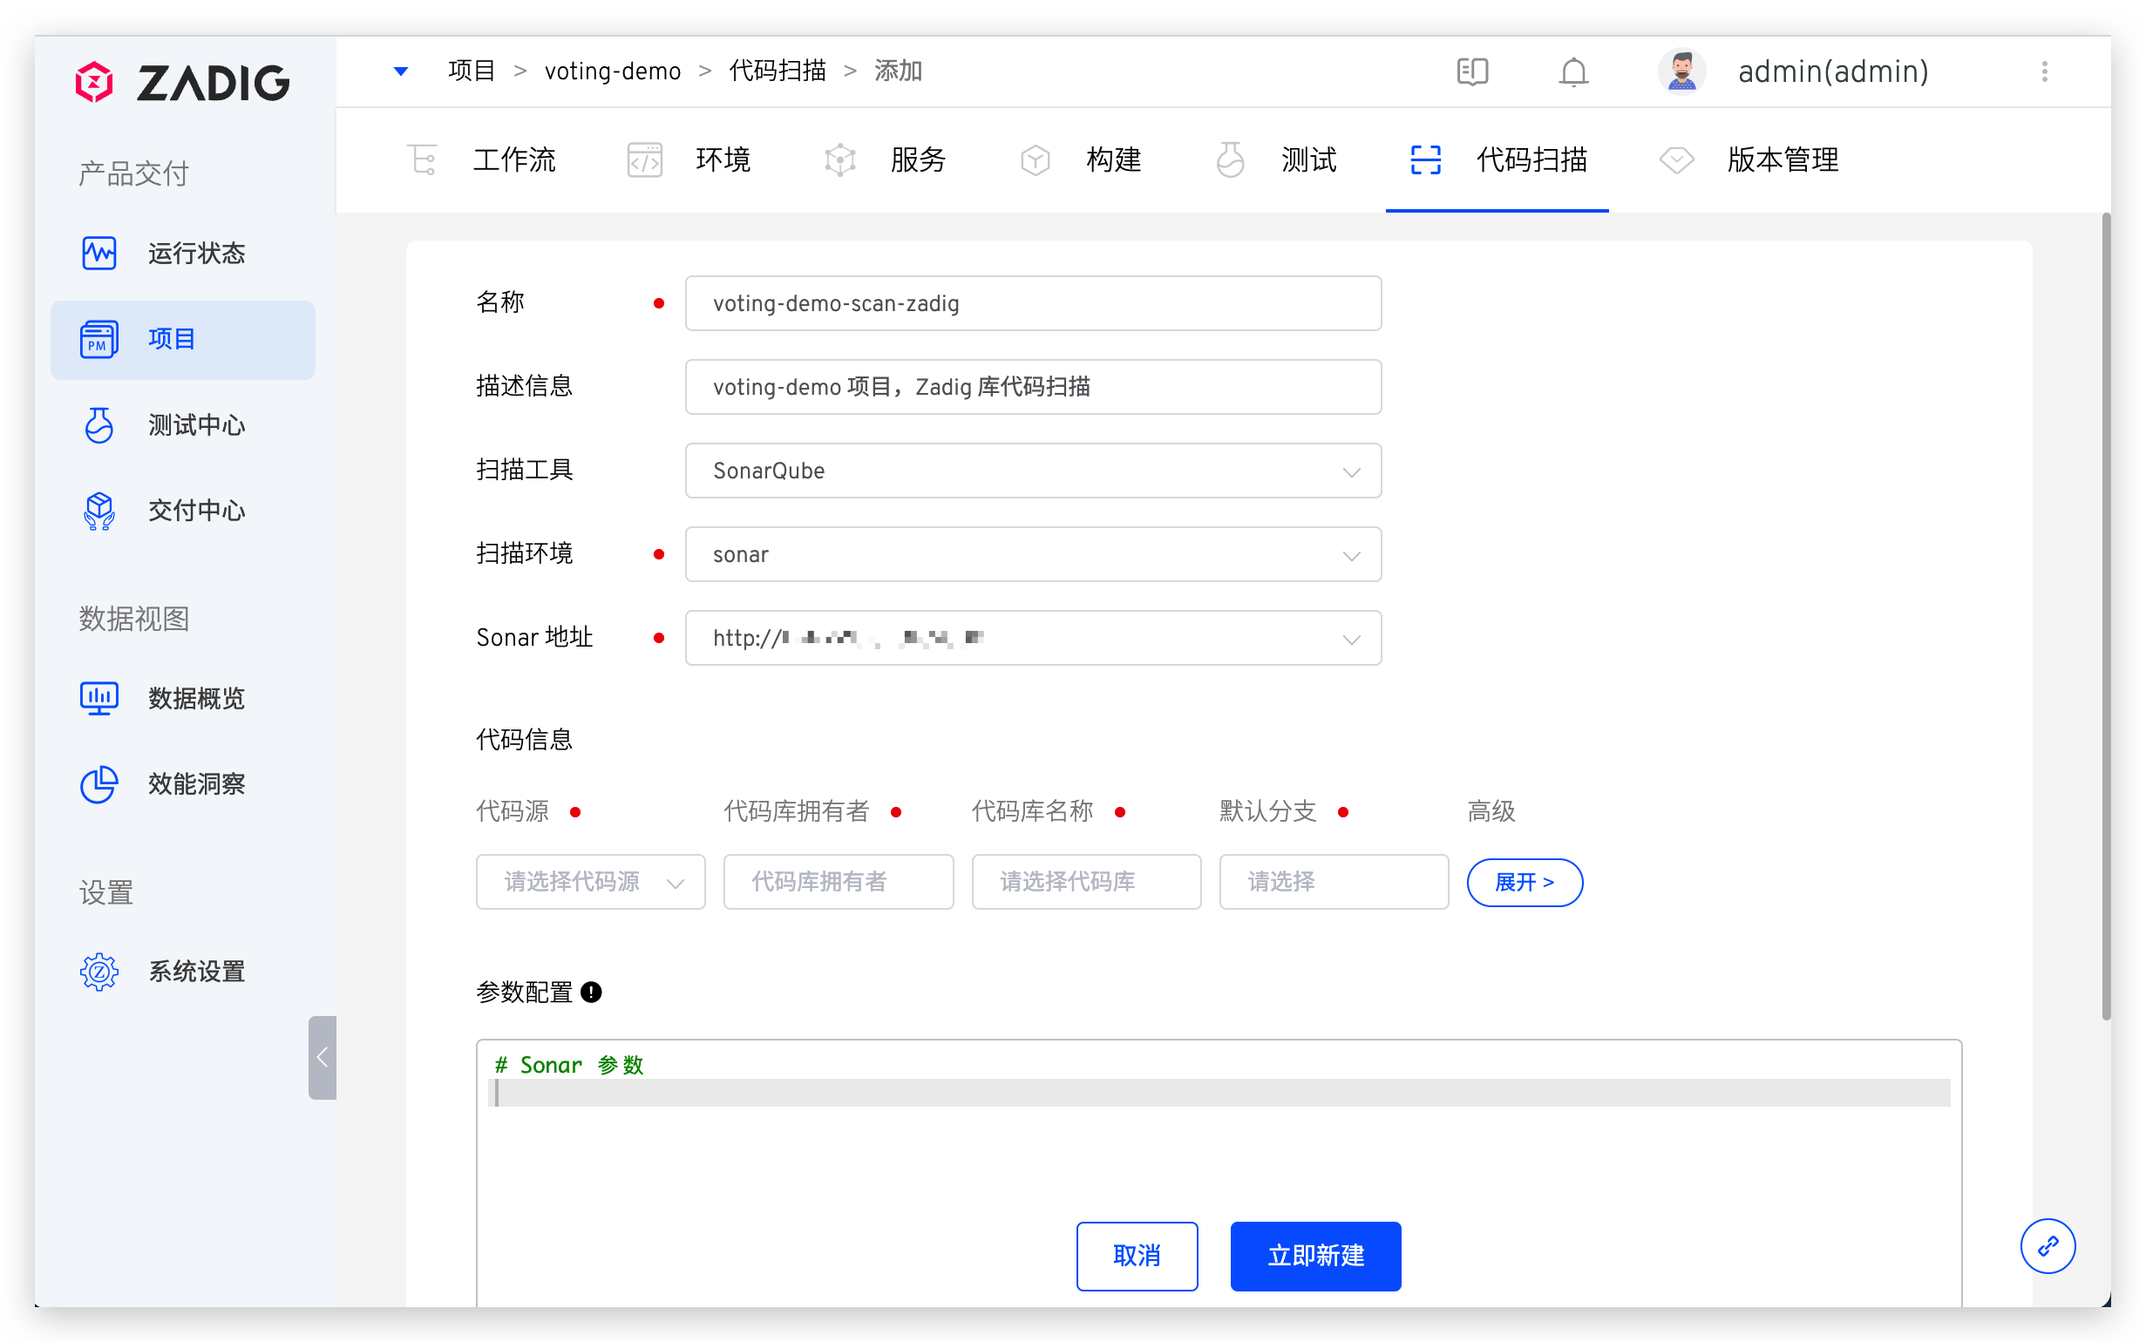
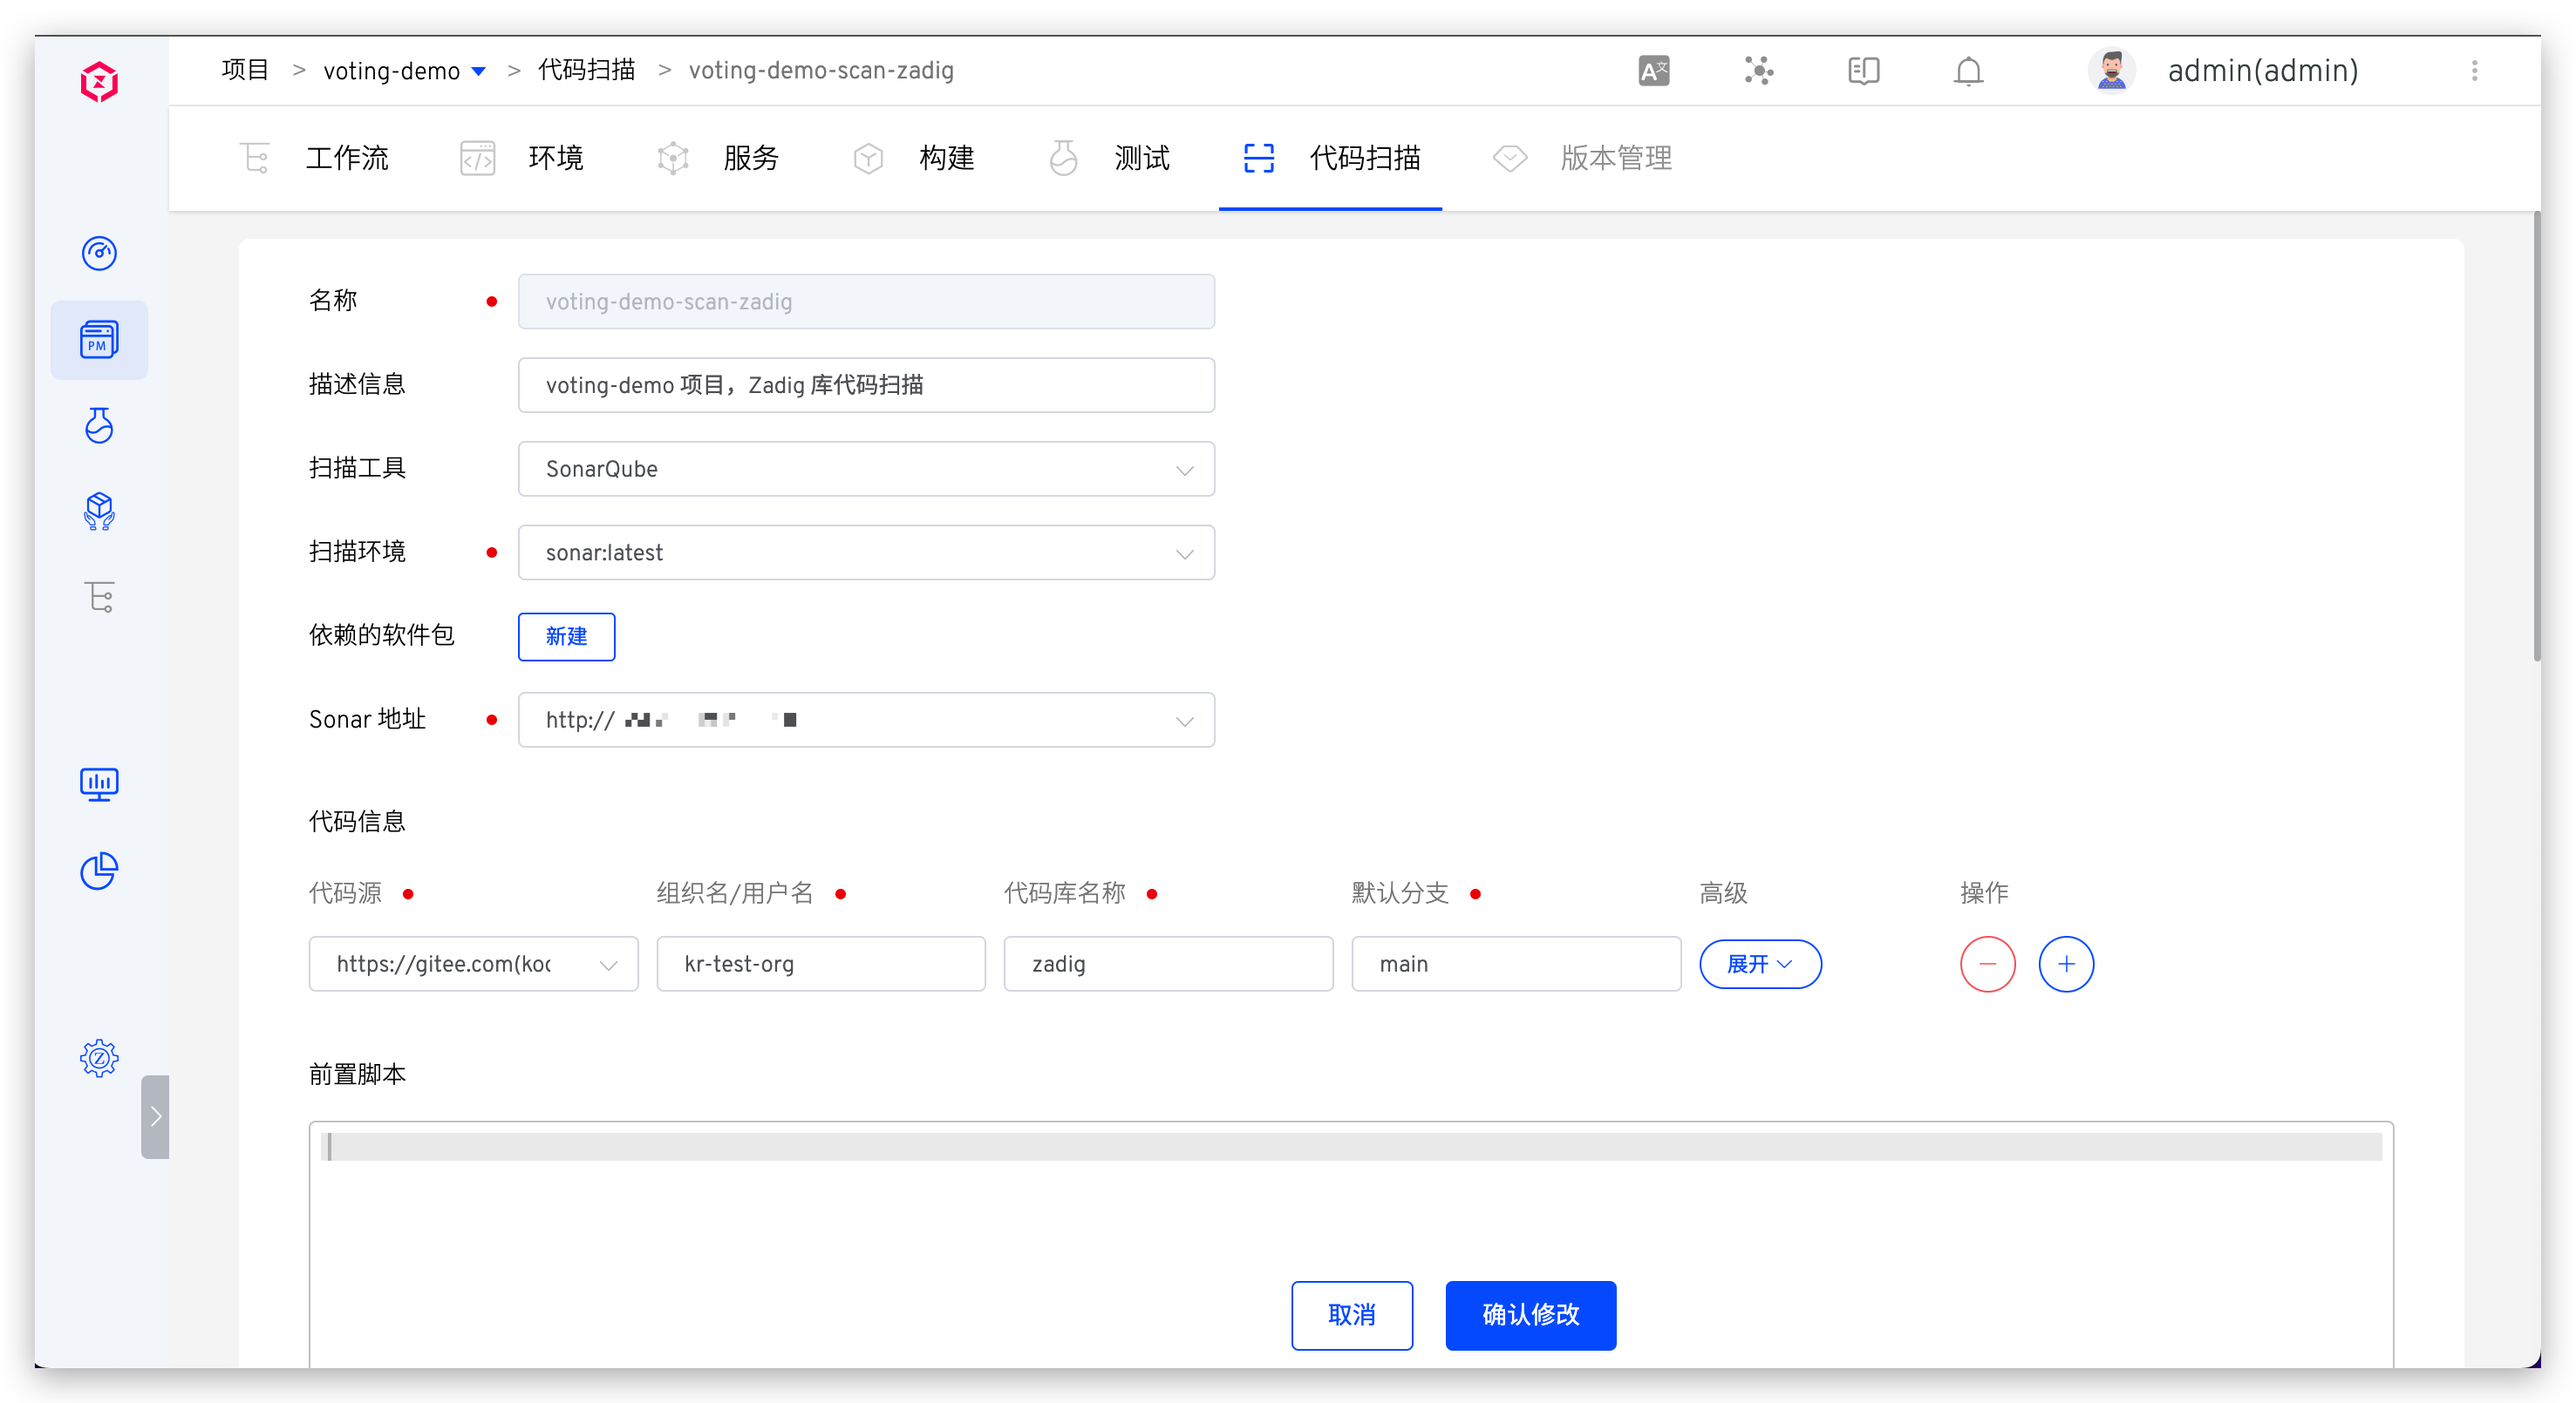
support multi repos in code scan

diff --git a/dev/04.项目/07.scan.md b/dev/04.项目/07.scan.md
@@ -19,17 +19,19 @@ permalink: /dev/project/scan/
 ### 基本信息
 
 - `名称`：代码扫描名称，同一项目下不允许重复
-- `扫描工具`：可指定 `SonarQube` 或其他
+- `扫描工具`：可指定 `SonarQube` 或`其他`
 - `扫描环境`：执行扫码任务时的具体运行环境
     - 若使用 `SonarQube` 工具进行代码扫描，系统已内置了支持该工具的环境 `sonar`，选择 `sonar` 即可
     - 若使用其他工具进行代码扫描，可参考[自定义镜像](/dev/settings/custom-image/)按需添加
+- `依赖的软件包`：使用 `SonarQube` 工具做代码扫描时可配置该项，用于指定扫描过程中需要用到的各类软件包工具，比如不同版本的 Java、Go、Node 等
+    - 选择软件包的过程中需要注意多个软件包之间的依赖关系，按照顺序进行安装。例如：Govendor 依赖 Go，那么请先选 Go，再选择 Govendor
+    - 平台已内置一些常见的软件包，如果有其他软件包或者版本需求，系统管理员可以在[软件包管理](/dev/settings/app/)中配置其安装脚本
 - `Sonar 地址`：使用 `SonarQube` 工具做代码扫描时需配置该项
     - 需要事先在系统中集成 Sonar，参考文档：[Sonar 集成](/dev/settings/sonar/)
     - 当代码扫描执行完成后，Zadig 会将结果上传到此处指定的系统中
 
 ### 代码信息
 > 需事先在 Zadig 中集成代码源，参考文档：[代码源集成](/dev/settings/codehost/overview/)。
-选择要被扫描的代码库，一个代码扫描配置中可配置一个代码库。
 
 ![代码扫描配置](./_images/search_gerrit.png)
 

diff --git a/dev/15.系统设置/09.app_setting.md b/dev/15.系统设置/09.app_setting.md
@@ -3,12 +3,13 @@ title: 软件包管理
 date: 2021-03-16 17:49:53
 permalink: /dev/settings/app/
 ---
-本文介绍如何在 Zadig 系统上配置和使用软件包。在 Zadig 中运行构建以及测试步骤，一般都需要用户根据实际业务去安装必要的软件包环境来进行构建或者编译。比如编译后端相关代码就需要 Go 环境、Java 环境等，前端代码的 NodeJS 环境以及其他环境。
+本文介绍如何在 Zadig 系统上配置和使用软件包。在 Zadig 中运行构建、测试以及代码扫描步骤，一般都需要用户根据实际业务去安装必要的软件包环境来进行构建或者编译。比如编译后端相关代码就需要 Go 环境、Java 环境等，前端代码的 NodeJS 环境以及其他环境。
 
-关于在构建以及测试中软件包的使用方式请分别参阅：
+关于在构建、测试以及代码扫描中软件包的使用方式请分别参阅：
 
 - [项目-选择项目 -> 构建 -> 新增构建配置](/dev/project/build/)
 - [测试管理 -> 新建测试配置](/dev/project/test/#测试配置)
+- [项目-选择项目 -> 代码扫描 -> 新建代码扫描配置](/dev/project/scan/)
 
 ## 新建软件包
 
